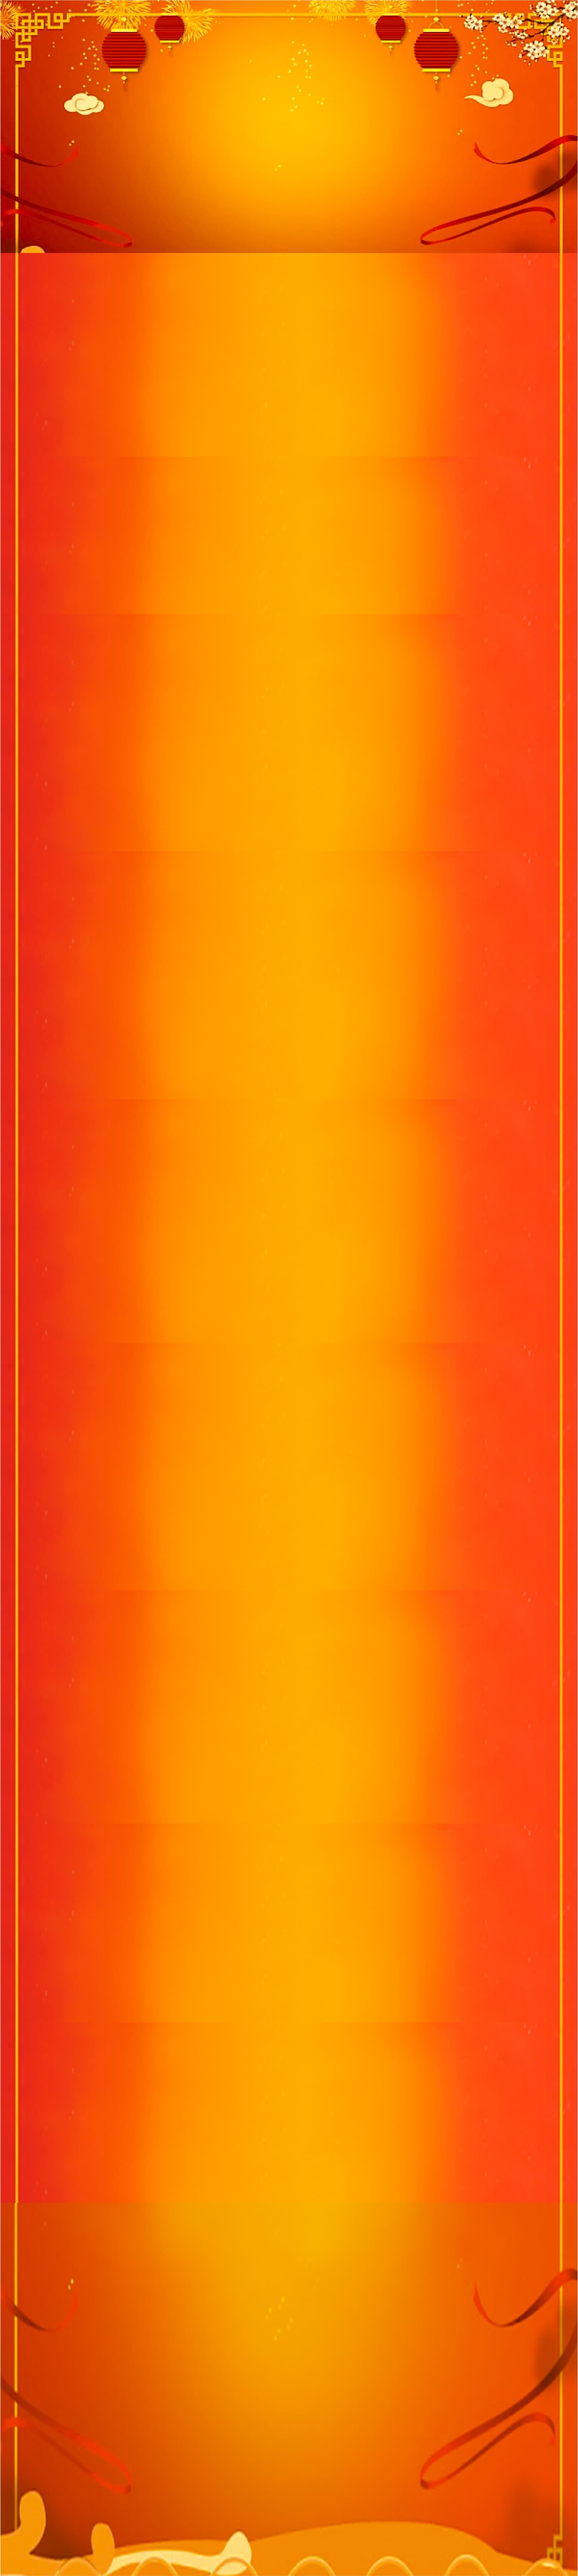
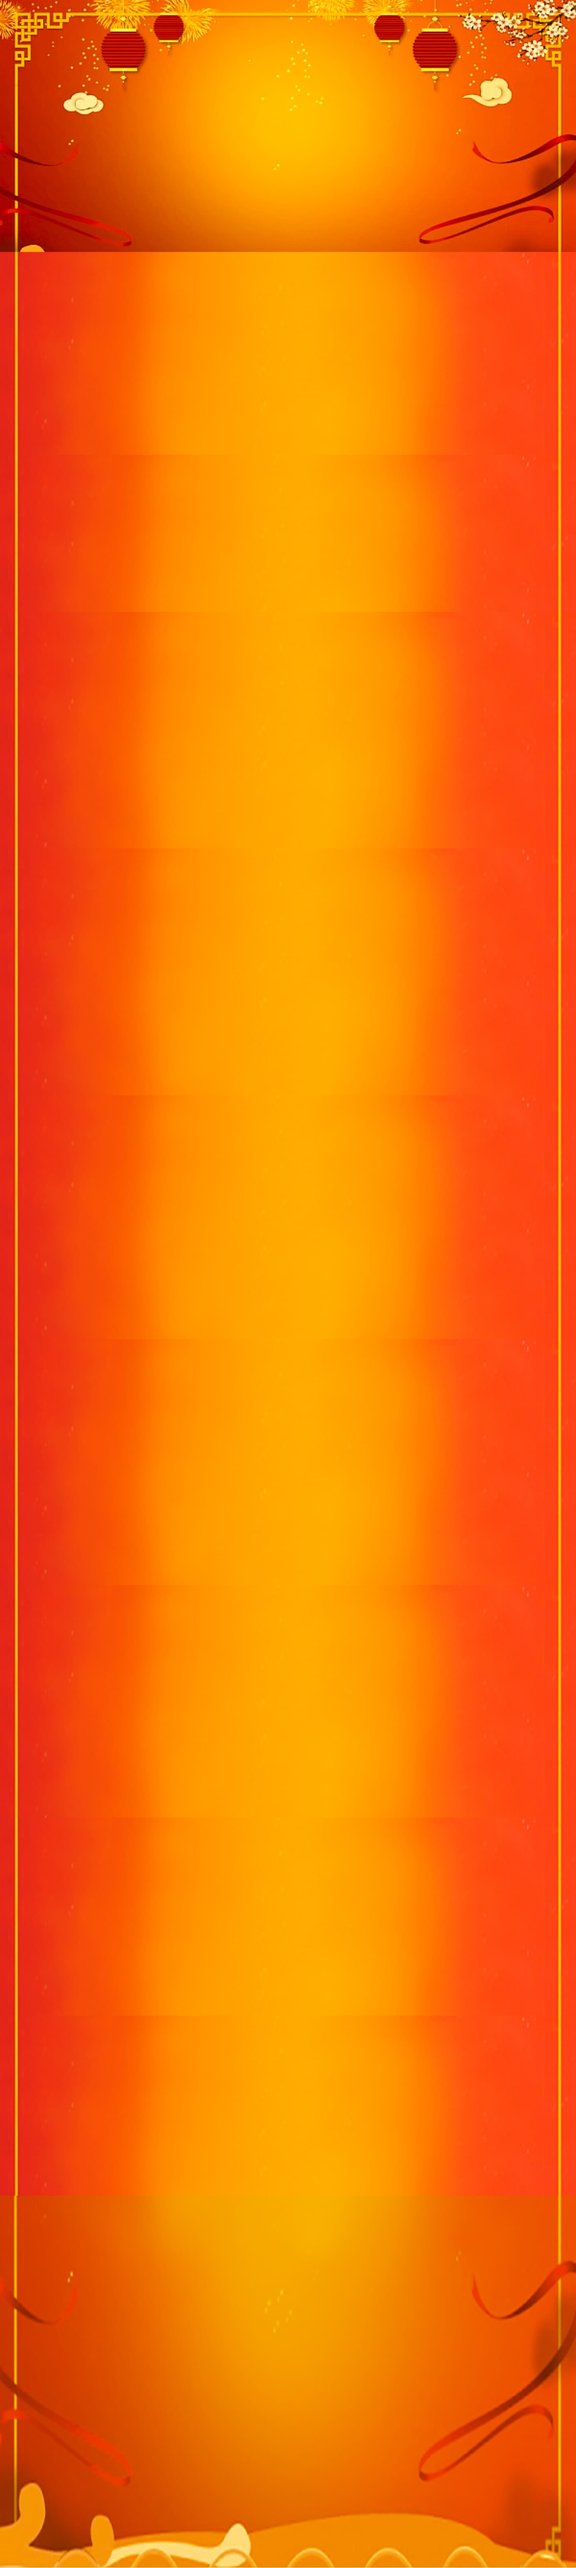
fix bag with bg

Changed region(s): [[0.0, 0.9995, 1.0, 1.0], [0.0, 0.0, 0.0613, 0.9683], [0.8579, 0.0, 1.0, 0.0937]]

diff --git a/china-food/main-menu/rice-bowl.html b/china-food/main-menu/rice-bowl.html
@@ -1,0 +1,268 @@
+<!DOCTYPE html>
+<html lang="en">
+
+<head>
+    <meta charset="UTF-8">
+    <meta name="viewport" content="width=device-width, initial-scale=1.0">
+    <title>China delicacy</title>
+    <link rel="stylesheet"
+        href="https://cdnjs.cloudflare.com/ajax/libs/modern-normalize/1.1.0/modern-normalize.min.css">
+    <link
+        href="https://fonts.googleapis.com/css2?family=Akshar&family=Alegreya&family=Inconsolata&family=Inter:wght@800&family=Jost:wght@500&family=Kadwa:wght@700&display=swap"
+        rel="stylesheet">
+    <link rel="stylesheet" href="main-menu.css">
+</head>
+
+<body>
+    <header>
+        <img class="logo" src="../../images/logo.png" srcset="../../images/logo.png 1x, ../../images/logo@2.png 2x"
+            alt="logo">
+        <h1 class="logo__text">китайська кухня</h1>
+    </header>
+
+    <div class="hotbar">
+        <div class="hotbar__box">
+            <button class="hotbar__btn">
+                <svg class="hotbar__icon">
+                    <use href="../../images/symbol-defs.svg#burger-button"></use>
+                </svg>
+            </button>
+            <a class="hotbar__address" href="https://goo.gl/maps/gHGynM52fc8eHZaC8">Аркадія сіті 59/1</a>
+        </div>
+        <button class="hotbar__btn-desktop">
+            <svg class="hotbar__icon-desktop">
+                <use href="../../images/symbol-defs.svg#burger-button"></use>
+            </svg>
+        </button>
+        <a class="hotbar__address-desktop" href="https://goo.gl/maps/gHGynM52fc8eHZaC8">Аркадія сіті 59/1</a>
+        <a class="hotbar__tel-desktop" href="tel:+380637685788">+380 (63) 768 57 88</a>
+
+        <a class="hotbar__tel" href="tel:+380637685788">+380 (63) 768 57 88</a>
+    </div>
+
+    <main>
+        <section class="map">
+            <h1 class="map__title">МИ ЗНАХОДИМОСЯ ТУТ</h1>
+            <iframe class="map__gps"
+                src="https://www.google.com/maps/embed?pb=!1m18!1m12!1m3!1d476.2343463640308!2d30.765446139362318!3d46.4285117694159!2m3!1f0!2f0!3f0!3m2!1i1024!2i768!4f13.1!3m3!1m2!1s0x40c6351bf6fc2b37%3A0xb7a6d3c1d923446b!2sChina%20Delicacy!5e0!3m2!1sru!2sua!4v1690284527312!5m2!1sru!2sua"
+                width="180" height="145" style="border:0;" allowfullscreen="" loading="lazy"
+                referrerpolicy="no-referrer-when-downgrade"></iframe>
+        </section>
+
+        <section class="menu">
+            <h1 class="menu__title">меню</h1>
+
+            <div class="chapter">
+                <div class="chapter__head">
+                    <div class="chapter__name" id="salat">
+                        <h2 class="chapter__title">Чаша с куркою та рисом</h2>
+                        <p class="chapter__subtitle">Chicken Rice Bowl · 鸡肉盖饭</p>
+                    </div>
+                    <div class="chapter__box">
+                        <div class="weight">
+                            <p class="weight__text">Вага</p>
+                        </div>
+                        <div class="price">
+                            <p class="price__text">Ціна</p>
+                        </div>
+                    </div>
+                </div>
+
+                <div class="chapter__item">
+                    <div class="chapter__text-box">
+                        <p class="chapter__text">Кімчі <span class="chapter__span">Kimchi 辣白菜</span>
+                        </p>
+                        <div class="chapter__box">
+                            <p class="chapter__weight">150гр</p>
+                            <p class="chapter__price">80₴</p>
+                        </div>
+                    </div>
+
+                    <img class="chapter__img" src="../../images/snacs-img-1.jpg" alt="snacs"
+                        srcset="../../images/snacs-img-1.jpg 1x, ../../images/snacs-img-1@2x.jpg 2x">
+                </div>
+
+                <div class="chapter__item">
+                    <div class="chapter__text-box">
+                        <p class="chapter__text">Салат з яловичини <span class="chapter__span">Beef salad 牛肉沙拉</span>
+                        </p>
+                        <div class="chapter__box">
+                            <p class="chapter__weight">220гр</p>
+                            <p class="chapter__price">150₴</p>
+                        </div>
+                    </div>
+
+                    <img class="chapter__img" src="../../images/snacs-img-2.jpg" alt="snacs"
+                        srcset="../../images/snacs-img-2.jpg 1x, ../../images/snacs-img-2@2x.jpg 2x">
+                </div>
+
+                <div class="chapter__item">
+                    <div class="chapter__text-box">
+                        <p class="chapter__text">Салат з огірків <span class="chapter__span">Pat Cucumber Salad
+                                拍黄瓜沙拉</span>
+                        </p>
+                        <div class="chapter__box">
+                            <p class="chapter__weight">300гр</p>
+                            <p class="chapter__price">150₴</p>
+                        </div>
+                    </div>
+
+                    <img class="chapter__img" src="../../images/snacs-img-3.jpg" alt="snacs"
+                        srcset="../../images/snacs-img-3.jpg 1x, ../../images/snacs-img-3@2x.jpg 2x">
+                </div>
+
+                <div class="chapter__head">
+                    <div class="chapter__name" id="fried">
+                        <h2 class="chapter__title">Смажені</h2>
+                        <p class="chapter__subtitle">Fried · 煎炸</p>
+                    </div>
+                    <div class="chapter__box">
+                        <div class="weight">
+                            <p class="weight__text">Вага</p>
+                        </div>
+                        <div class="price">
+                            <p class="price__text">Ціна</p>
+                        </div>
+                    </div>
+                </div>
+
+                <div class="chapter__item">
+                    <div class="chapter__text-box">
+                        <p class="chapter__text">Смажені курячі крильця <span class="chapter__span">Fried chicken wings
+                                炸鸡翅</span>
+                        </p>
+                        <div class="chapter__box">
+                            <p class="chapter__weight">280гр</p>
+                            <p class="chapter__price">130₴</p>
+                        </div>
+                    </div>
+
+                    <img class="chapter__img" src="../../images/snacs-img-4.jpg" alt="snacs"
+                        srcset="../../images/snacs-img-4.jpg 1x, ../../images/snacs-img-4@2x.jpg 2x">
+                </div>
+
+                <div class="chapter__item">
+                    <div class="chapter__text-box">
+                        <p class="chapter__text">Смажені вонтони <span class="chapter__span">Fried wonton 炸馄饨</span>
+                        </p>
+                        <div class="chapter__box">
+                            <p class="chapter__weight">150гр</p>
+                            <p class="chapter__price">120₴</p>
+                        </div>
+                    </div>
+
+                    <img class="chapter__img" src="../../images/snacs-img-5.jpg" alt="snacs"
+                        srcset="../../images/snacs-img-5.jpg 1x, ../../images/snacs-img-5@2x.jpg 2x">
+                </div>
+
+                <div class="chapter__item">
+                    <div class="chapter__text-box">
+                        <p class="chapter__text">Смажені пельмені <span class="chapter__span">Fried dumplings 煎饺</span>
+                        </p>
+                        <div class="chapter__box">
+                            <p class="chapter__weight">220гр</p>
+                            <p class="chapter__price">150₴</p>
+                        </div>
+                    </div>
+
+                    <img class="chapter__img" src="../../images/snacs-img-6.jpg" alt="snacs"
+                        srcset="../../images/snacs-img-6.jpg 1x, ../../images/snacs-img-6@2x.jpg 2x">
+                </div>
+
+                <div class="chapter__item">
+                    <div class="chapter__text-box">
+                        <p class="chapter__text">Смажені ребра <span class="chapter__span">Fried ribs 炸排骨</span>
+                        </p>
+                        <div class="chapter__box">
+                            <p class="chapter__weight">300гр</p>
+                            <p class="chapter__price">140₴</p>
+                        </div>
+                    </div>
+
+                    <img class="chapter__img" src="../../images/snacs-img-7.jpg" alt="snacs"
+                        srcset="../../images/snacs-img-7.jpg 1x, ../../images/snacs-img-7@2x.jpg 2x">
+                </div>
+
+                <div class="chapter__item">
+                    <div class="chapter__text-box">
+                        <p class="chapter__text">Смажені кальмари <span class="chapter__span">Fried squid 炸鱿鱼</span>
+                        </p>
+                        <div class="chapter__box">
+                            <p class="chapter__weight">220гр</p>
+                            <p class="chapter__price">140₴</p>
+                        </div>
+                    </div>
+
+                    <img class="chapter__img" src="../../images/snacs-img-8.jpg" alt="snacs"
+                        srcset="../../images/snacs-img-8.jpg 1x, ../../images/snacs-img-8@2x.jpg 2x">
+                </div>
+
+                <div class="chapter__item">
+                    <div class="chapter__text-box">
+                        <p class="chapter__text">Смажені креветки <span class="chapter__span">Fried shrimp 炸虾</span>
+                        </p>
+                        <div class="chapter__box">
+                            <p class="chapter__weight">220гр</p>
+                            <p class="chapter__price">160₴</p>
+                        </div>
+                    </div>
+
+                    <img class="chapter__img" src="../../images/snacs-img-9.jpg" alt="snacs"
+                        srcset="../../images/snacs-img-9.jpg 1x, ../../images/snacs-img-9@2x.jpg 2x">
+                </div>
+
+            </div>
+            </div>
+        </section>
+    </main>
+
+    <footer class="footer">
+        <div class="footer__box">
+            <h1 class="footer__title">China delicacy</h1>
+            <p class="footer__text">Ресторан китайської кухні</p>
+        </div>
+        <div class="messenger">
+            <p class="messenger__text">ЛАСКОВО ПРОСИМО У НАШ</p>
+            <a href="https://www.instagram.com/delicacychina/">
+                <svg class="messenger__icon">
+                    <use href="../../images/symbol-defs.svg#icon-instagram">
+                    </use>
+                </svg>
+            </a>
+            <p class="messenger__text">INSTAGRAM</p>
+        </div>
+    </footer>
+
+    <div class="nav">
+        <div class="nav__box">
+
+            <div class="nav__item">
+                <a class="nav__link" href="#salat">
+                    <h1 class="nav__title">Салати</h1>
+                    <p class="nav__text">Salad · 沙拉</p>
+                </a>
+            </div>
+
+
+            <div class="nav__item last">
+                <a class="nav__link" href="#fried">
+                    <h1 class="nav__title">Смажені</h1>
+                    <p class="nav__text">Fried · 煎炸</p>
+                </a>
+            </div>
+
+        </div>
+
+    </div>
+    <div class="nav__backface">
+        <button class="nav__btn">
+            <svg class="nav__close">
+                <use href="../../images/symbol-defs.svg#cross"></use>
+            </svg>
+        </button>
+    </div>
+    <script src="../../navigation.js"></script>
+
+</body>
+
+</html>

diff --git a/china-food/china-food.css b/china-food/china-food.css
@@ -115,7 +115,8 @@ a {
   padding: 25px 20px;
   background-image: url(../images/menu-bg-china-food-mobile.jpg);
   background-size: cover;
-  background-repeat: no-repeat;
+  background-repeat: repeat;
+  background-size: 100%;
 }
 @media screen and (min-device-pixel-ration: 2), screen and (-webkit-min-device-pixel-ratio: 2), screen and (min-resolution: 192dpi), screen and (min-resolution: 2dppx) {
   .menu {

diff --git a/china-food/main-menu/main-menu.css b/china-food/main-menu/main-menu.css
@@ -115,7 +115,8 @@ a {
   padding: 25px 20px;
   background-image: url(../../images/main-menu-bg-mobile.jpg);
   background-size: cover;
-  background-repeat: no-repeat;
+  background-repeat: repeat;
+  background-size: 100%;
 }
 @media screen and (min-device-pixel-ration: 2), screen and (-webkit-min-device-pixel-ratio: 2), screen and (min-resolution: 192dpi), screen and (min-resolution: 2dppx) {
   .menu {

diff --git a/main.css b/main.css
@@ -115,7 +115,8 @@ a {
   padding: 25px 20px;
   background-image: url(images/menu-bg-mobile.jpg);
   background-size: cover;
-  background-repeat: no-repeat;
+  background-repeat: repeat;
+  background-size: 100%;
 }
 @media screen and (min-device-pixel-ration: 2), screen and (-webkit-min-device-pixel-ratio: 2), screen and (min-resolution: 192dpi), screen and (min-resolution: 2dppx) {
   .menu {

diff --git a/china-food/china-food.html b/china-food/china-food.html
@@ -74,7 +74,7 @@
 
 
                 <div class="menu__box">
-                    <a href="">
+                    <a href="main-menu/rice-bowl.html">
                         <img class="menu__img" src="../images/rice-china-food.jpg"
                             srcset="../images/rice-china-food.jpg 1x, ../images/rice-china-food@2x.jpg 2x"
                             alt="china-food">

diff --git a/mobile/china-food/menu/_menu-mobile.scss b/mobile/china-food/menu/_menu-mobile.scss
@@ -3,7 +3,9 @@
 
     background-image: url(../images/menu-bg-china-food-mobile.jpg);
     background-size: cover;
-    background-repeat: no-repeat;
+    background-repeat: repeat;
+
+    background-size: 100%;
 
     @media screen and (min-device-pixel-ration: 2),
     screen and (min-resolution: 192dpi),

diff --git a/mobile/main-menu/menu/_menu-mobile.scss b/mobile/main-menu/menu/_menu-mobile.scss
@@ -3,7 +3,8 @@
 
     background-image: url(../../images/main-menu-bg-mobile.jpg);
     background-size: cover;
-    background-repeat: no-repeat;
+    background-repeat: repeat;
+    background-size: 100%;
 
     @media screen and (min-device-pixel-ration: 2),
     screen and (min-resolution: 192dpi),

diff --git a/mobile/main/menu/_menu-mobile.scss b/mobile/main/menu/_menu-mobile.scss
@@ -3,7 +3,8 @@
 
     background-image: url(images/menu-bg-mobile.jpg);
     background-size: cover;
-    background-repeat: no-repeat;
+    background-repeat: repeat;
+    background-size: 100%;
 
     @media screen and (min-device-pixel-ration: 2),
     screen and (min-resolution: 192dpi),
